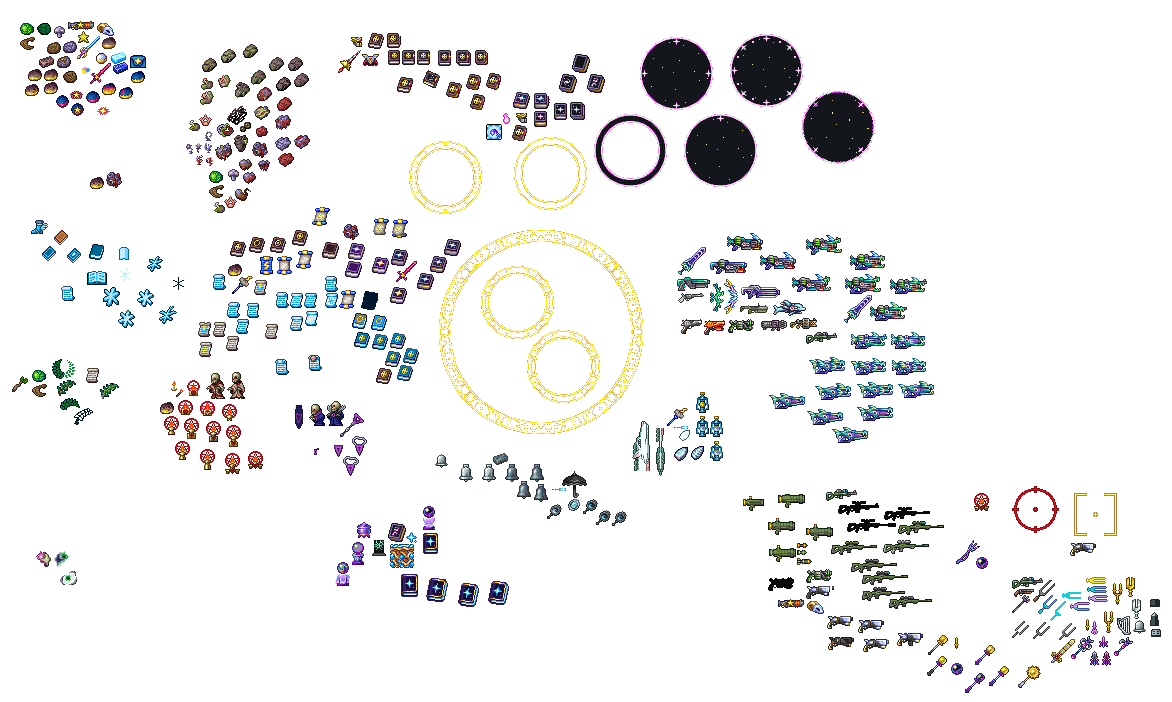
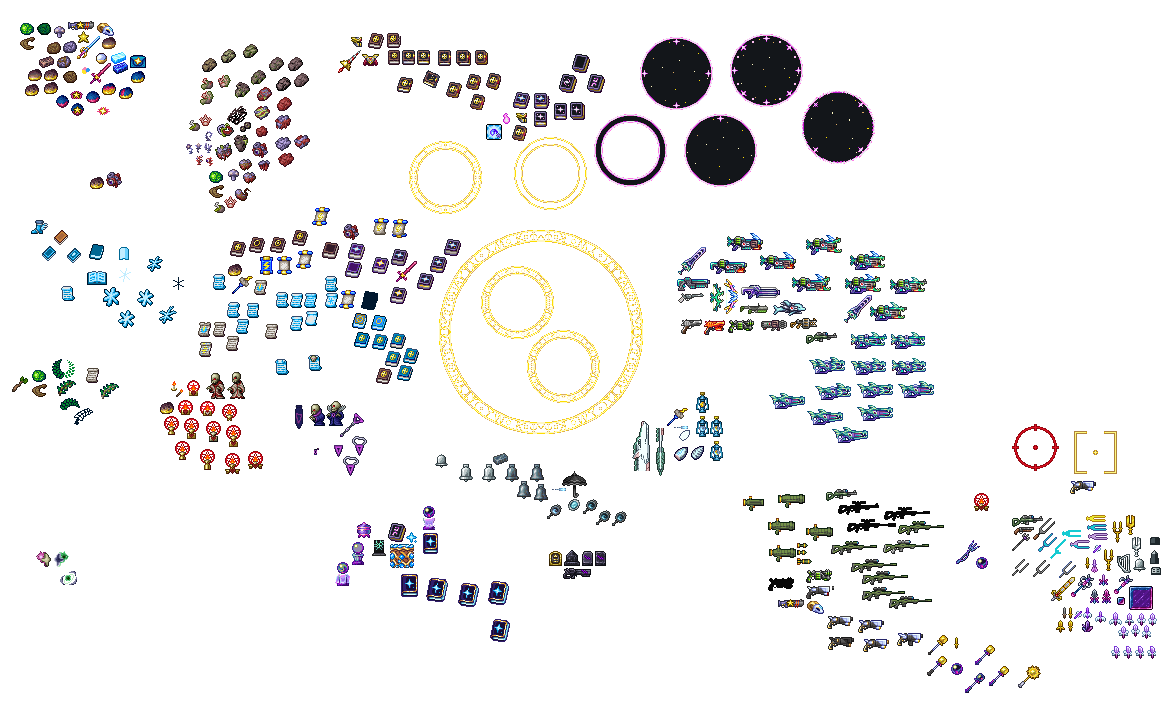
fairy knife

Changed region(s): [[0.8601, 0.5983, 1.0, 0.9573], [0.4608, 0.7778, 0.5222, 0.8376], [0.3993, 0.8675, 0.43, 0.9274]]

diff --git a/Content/Items/Weapons/Magic/FairyKnife/FairyKnifeProj.cs b/Content/Items/Weapons/Magic/FairyKnife/FairyKnifeProj.cs
@@ -1,0 +1,151 @@
+using System;
+using Microsoft.Xna.Framework;
+using Microsoft.Xna.Framework.Graphics;
+using Terraria;
+using Terraria.Audio;
+using Terraria.DataStructures;
+using Terraria.GameContent;
+using Terraria.ID;
+using Terraria.ModLoader;
+
+namespace SuperfluityTwo.Content.Items.Weapons.Magic.FairyKnife
+{
+    public class FairyKnifeProj : ModProjectile
+    {
+        ref float Timer => ref Projectile.ai[0];
+        ref float JumpsLeft => ref Projectile.ai[1];
+        //ref float JumpTimer => ref Projectile.ai[2];
+
+        public override void SetStaticDefaults()
+        {
+            Main.projFrames[Type] = 4;
+        }
+
+        public override void SetDefaults()
+        {
+            Projectile.DamageType = DamageClass.Magic;
+            Projectile.ignoreWater = true;
+            Projectile.tileCollide = true;
+            Projectile.width = 12;
+            Projectile.height = 12;
+            Projectile.friendly = true;
+            Projectile.penetrate = 2;
+        }
+
+        public override void OnSpawn(IEntitySource source)
+        {
+            if (JumpsLeft == 0)
+                JumpsLeft = 1;
+            else
+                JumpsLeft--;
+
+
+            for (int i = 0; i < 12; i++)
+            {
+                Vector2 dustDir = (MathHelper.TwoPi * i / 12f).ToRotationVector2();
+                Dust.NewDustPerfect(Projectile.Center, DustID.ShimmerSpark, dustDir * 0.3f);
+            }
+        }
+
+        public override void OnKill(int timeLeft)
+        {
+            SoundEngine.PlaySound(SoundID.Dig, new Vector2((int)Projectile.position.X, (int)Projectile.position.Y));
+            for (int num640 = 0; num640 < 10; num640++)
+            {
+                Dust.NewDust(new Vector2(Projectile.position.X, Projectile.position.Y), Projectile.width, Projectile.height, DustID.PinkCrystalShard, Projectile.velocity.X * 0.1f, Projectile.velocity.Y * 0.1f, 0, default(Color), 0.75f);
+            }
+        }
+
+        public override bool OnTileCollide(Vector2 oldVelocity)
+        {
+            if (JumpsLeft > 0 && oldVelocity.Y > float.Epsilon && Math.Abs(Projectile.velocity.Y - oldVelocity.Y) > float.Epsilon)
+            {
+                Projectile.velocity = oldVelocity;
+                Flap();
+            }
+            else
+            {
+                //Collision.HitTiles(Projectile.position, Projectile.velocity, Projectile.width, Projectile.height);
+                Projectile.Kill();
+            }
+
+            return false;
+        }
+
+        public override void AI()
+        {
+            const int WEIGHTLESS_TIME = 15;
+            //const int JUMP_TIME = 30;
+            if (Timer > WEIGHTLESS_TIME)
+            {
+                Projectile.velocity *= 0.975f;
+                Projectile.velocity.Y += 0.1875f;
+                /*if (JumpTimer >= JUMP_TIME && JumpsLeft > 0)
+                {
+                    Flap();
+                    JumpTimer -= 40;
+                }
+                JumpTimer++;*/
+            }
+            Projectile.rotation = Projectile.velocity.ToRotation();
+            Projectile.spriteDirection = Projectile.direction = Projectile.velocity.X > 0 ? 1 : -1;
+
+            Projectile.frameCounter += 10 + (int)Projectile.velocity.Length();
+
+            if (Projectile.frameCounter > 60)
+            {
+                Projectile.frame = (Projectile.frame + 1) % Main.projFrames[Type];
+                Projectile.frameCounter -= 60;
+            }
+
+            Timer++;
+        }
+
+        private void Flap()
+        {
+            Projectile.frame = 1;
+            Projectile.frameCounter = 120;
+            if (Projectile.velocity.Y > 0)
+                Projectile.velocity.Y *= -0.75f;
+            else
+                Projectile.velocity.Y *= 1.25f;
+            Projectile.velocity.Y -= 1f;
+            Projectile.velocity.X *= 2.5f;
+            if (Projectile.velocity.Length() > 10f)
+            {
+                Projectile.velocity = Projectile.velocity.SafeNormalize(-Vector2.UnitY) * 10;
+            }
+            for (int i = 0; i < 12; i++)
+            {
+                Vector2 dustDir = (MathHelper.TwoPi * i / 12f).ToRotationVector2();
+                dustDir.X *= 1.5f;
+                Dust.NewDustPerfect(Projectile.Center, DustID.ShimmerSpark, dustDir * 0.3f);
+            }
+            //JumpTimer = 0;
+            JumpsLeft--;
+        }
+
+        public override bool PreDraw(ref Color lightColor)
+        {
+            SpriteEffects effects = Projectile.spriteDirection == -1 ? SpriteEffects.FlipVertically : SpriteEffects.None;
+            Texture2D texture = TextureAssets.Projectile[Type].Value;
+            int frameHeight = texture.Height / Main.projFrames[Type];
+            int spriteSheetOffset = frameHeight * Projectile.frame;
+            Vector2 sheetInsertPosition = (Projectile.Center + Vector2.UnitY * Projectile.gfxOffY - Main.screenPosition).Floor();
+
+            Main.EntitySpriteDraw(
+                texture,
+                sheetInsertPosition,
+                new Rectangle?(new Rectangle(0, spriteSheetOffset, texture.Width, frameHeight - 2)),
+                Projectile.GetAlpha(lightColor),
+                Projectile.rotation,
+                new Vector2(texture.Width / 2f, (frameHeight - 2) / 2f),
+                Projectile.scale,
+                effects,
+                0f
+            );
+            
+            return false;
+        }
+    }   
+}

diff --git a/Common/NPCs/Shops.cs b/Common/NPCs/Shops.cs
@@ -1,4 +1,8 @@
+using SuperfluityTwo.Common;
+using SuperfluityTwo.Content.Items.Weapons.Magic;
+using SuperfluityTwo.Content.Items.Weapons.Magic.FairyKnife;
 using Terraria;
+using Terraria.GameContent.ItemDropRules;
 using Terraria.ID;
 using Terraria.ModLoader;
 
@@ -48,9 +52,18 @@ namespace SuperfluityTwo.NPCs
             }
             if (shop.FullName == NPCShopDatabase.GetShopName(NPCID.BestiaryGirl, "Shop"))
             {
-                shop.Add(new Item(ItemID.CreativeWings) {
-					shopCustomPrice = Item.buyPrice(gold: 30)
-				}, Condition.BestiaryFilledPercent(30));
+                shop.Add(new Item(ItemID.CreativeWings)
+                {
+                    shopCustomPrice = Item.buyPrice(gold: 30)
+                }, Condition.BestiaryFilledPercent(30));
+
+                shop.InsertAfter(
+                    shop.GetEntry(ItemID.BlandWhip),
+                    new Item(ModContent.ItemType<FairyKnife>()),
+                    SF2Conditions.EncounteredAnyFairy
+                );
+
+                //shop.Add(ItemID.FairyBell, Condition.NpcIsPresent(NPCID.Wizard), Condition.DownedTwins);
                 return;
             }
             if (shop.FullName == NPCShopDatabase.GetShopName(NPCID.Clothier, "Shop"))

diff --git a/Content/Items/Weapons/Magic/FairyKnife/FairyKnife.cs b/Content/Items/Weapons/Magic/FairyKnife/FairyKnife.cs
@@ -1,0 +1,35 @@
+using Microsoft.Xna.Framework;
+using SuperfluityTwo.Content.Projectiles;
+using Terraria;
+using Terraria.DataStructures;
+using Terraria.ID;
+using Terraria.ModLoader;
+using Terraria.Utilities;
+
+namespace SuperfluityTwo.Content.Items.Weapons.Magic.FairyKnife
+{
+	public class FairyKnife : ModItem
+	{
+		public override void SetDefaults()
+		{
+			Item.CloneDefaults(ItemID.MagicDagger);
+			Item.damage = 13;
+			Item.width += 2;
+			Item.useTime = 15;
+			Item.useAnimation = 15;
+			Item.knockBack = 15;
+			Item.value = Item.buyPrice(silver: 1);
+			Item.rare = ItemRarityID.Blue;
+			Item.mana = 5;
+			Item.shoot = ModContent.ProjectileType<FairyKnifeProj>();
+			Item.shootSpeed = 10f;
+			Item.consumable = true;
+			Item.maxStack = Item.CommonMaxStack;
+		}
+
+        public override void ModifyShootStats(Player player, ref Vector2 position, ref Vector2 velocity, ref int type, ref int damage, ref float knockback)
+        {
+			position += Main.rand.NextFloat(MathHelper.TwoPi).ToRotationVector2() * 8f;
+        }
+    }
+}

diff --git a/Common/SF2Conditions.cs b/Common/SF2Conditions.cs
@@ -1,0 +1,17 @@
+using Terraria;
+using Terraria.GameContent.Bestiary;
+using Terraria.ID;
+
+namespace SuperfluityTwo.Common
+{
+    public class SF2Conditions
+    {
+        public static readonly Condition EncounteredAnyFairy = new Condition("Mods.SuperfluityTwo.Conditions.EncounteredAnyFairy", () =>
+        {
+            bool blueFairy = Main.BestiaryDB.FindEntryByNPCID(NPCID.FairyCritterBlue).UIInfoProvider.GetEntryUICollectionInfo().UnlockState > BestiaryEntryUnlockState.NotKnownAtAll_0;
+            bool greenFairy = Main.BestiaryDB.FindEntryByNPCID(NPCID.FairyCritterGreen).UIInfoProvider.GetEntryUICollectionInfo().UnlockState > BestiaryEntryUnlockState.NotKnownAtAll_0;
+            bool pinkFairy = Main.BestiaryDB.FindEntryByNPCID(NPCID.FairyCritterPink).UIInfoProvider.GetEntryUICollectionInfo().UnlockState > BestiaryEntryUnlockState.NotKnownAtAll_0;
+            return blueFairy || greenFairy || pinkFairy;
+        });
+    }
+}

diff --git a/obj/Debug/net8.0/SuperfluityTwo.AssemblyInfo.cs b/obj/Debug/net8.0/SuperfluityTwo.AssemblyInfo.cs
@@ -13,7 +13,7 @@ using System.Reflection;
 [assembly: System.Reflection.AssemblyCompanyAttribute("SuperfluityTwo")]
 [assembly: System.Reflection.AssemblyConfigurationAttribute("Debug")]
 [assembly: System.Reflection.AssemblyFileVersionAttribute("1.0.0.0")]
-[assembly: System.Reflection.AssemblyInformationalVersionAttribute("1.0.0+64bb6b60e77db7ed6b99c13e3129efe2b260f5ba")]
+[assembly: System.Reflection.AssemblyInformationalVersionAttribute("1.0.0+6a46a61fdd27bc905732d0931b4265ed8f826e3f")]
 [assembly: System.Reflection.AssemblyProductAttribute("SuperfluityTwo")]
 [assembly: System.Reflection.AssemblyTitleAttribute("SuperfluityTwo")]
 [assembly: System.Reflection.AssemblyVersionAttribute("1.0.0.0")]

diff --git a/Changelog.md b/Changelog.md
@@ -31,6 +31,12 @@
   - static int[] trackedNPCs;
   - static int[Main.maxNPCs] trackedNPCFireTimers;
 
+## 0.29.0
+
+### 0.29.0 Additions
+
+- Added Fairy Knife
+
 ## 0.28.3
 
 ### 0.28.3 Changes
